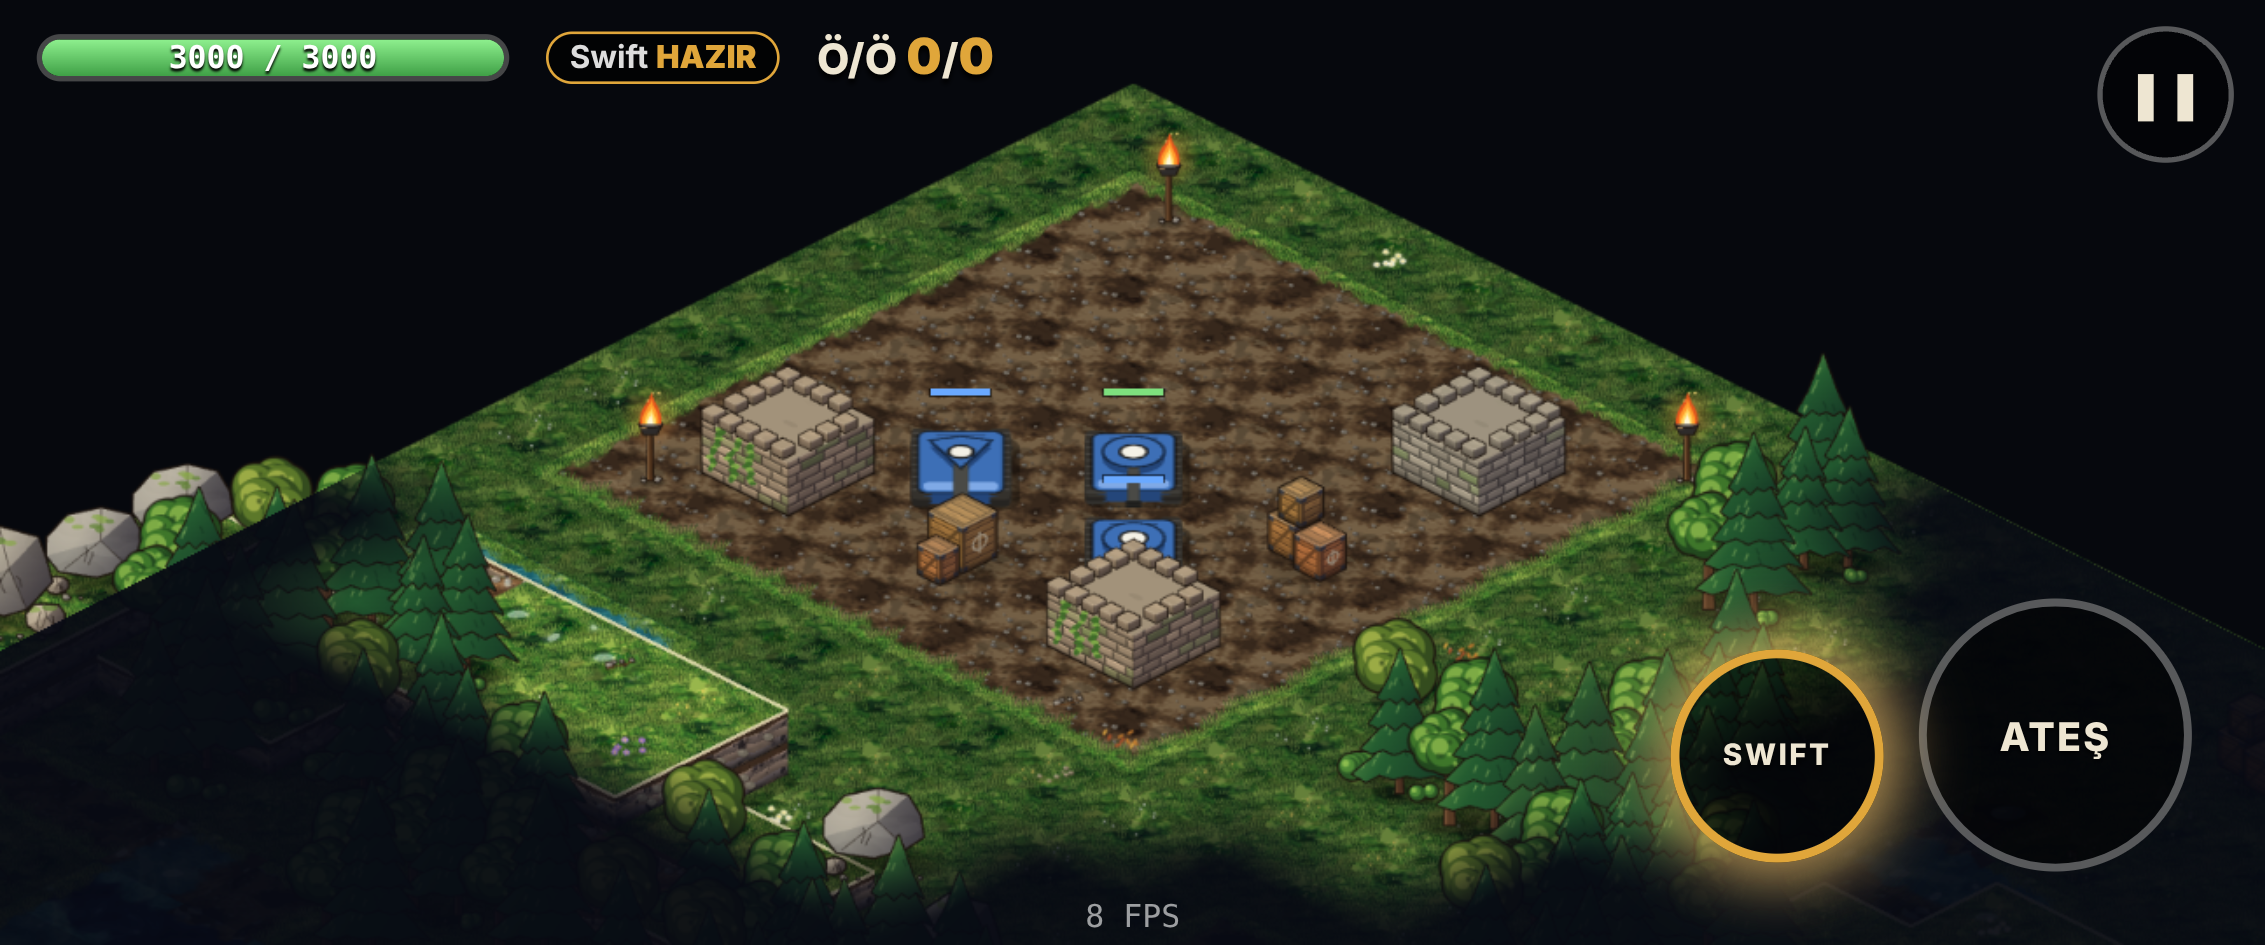
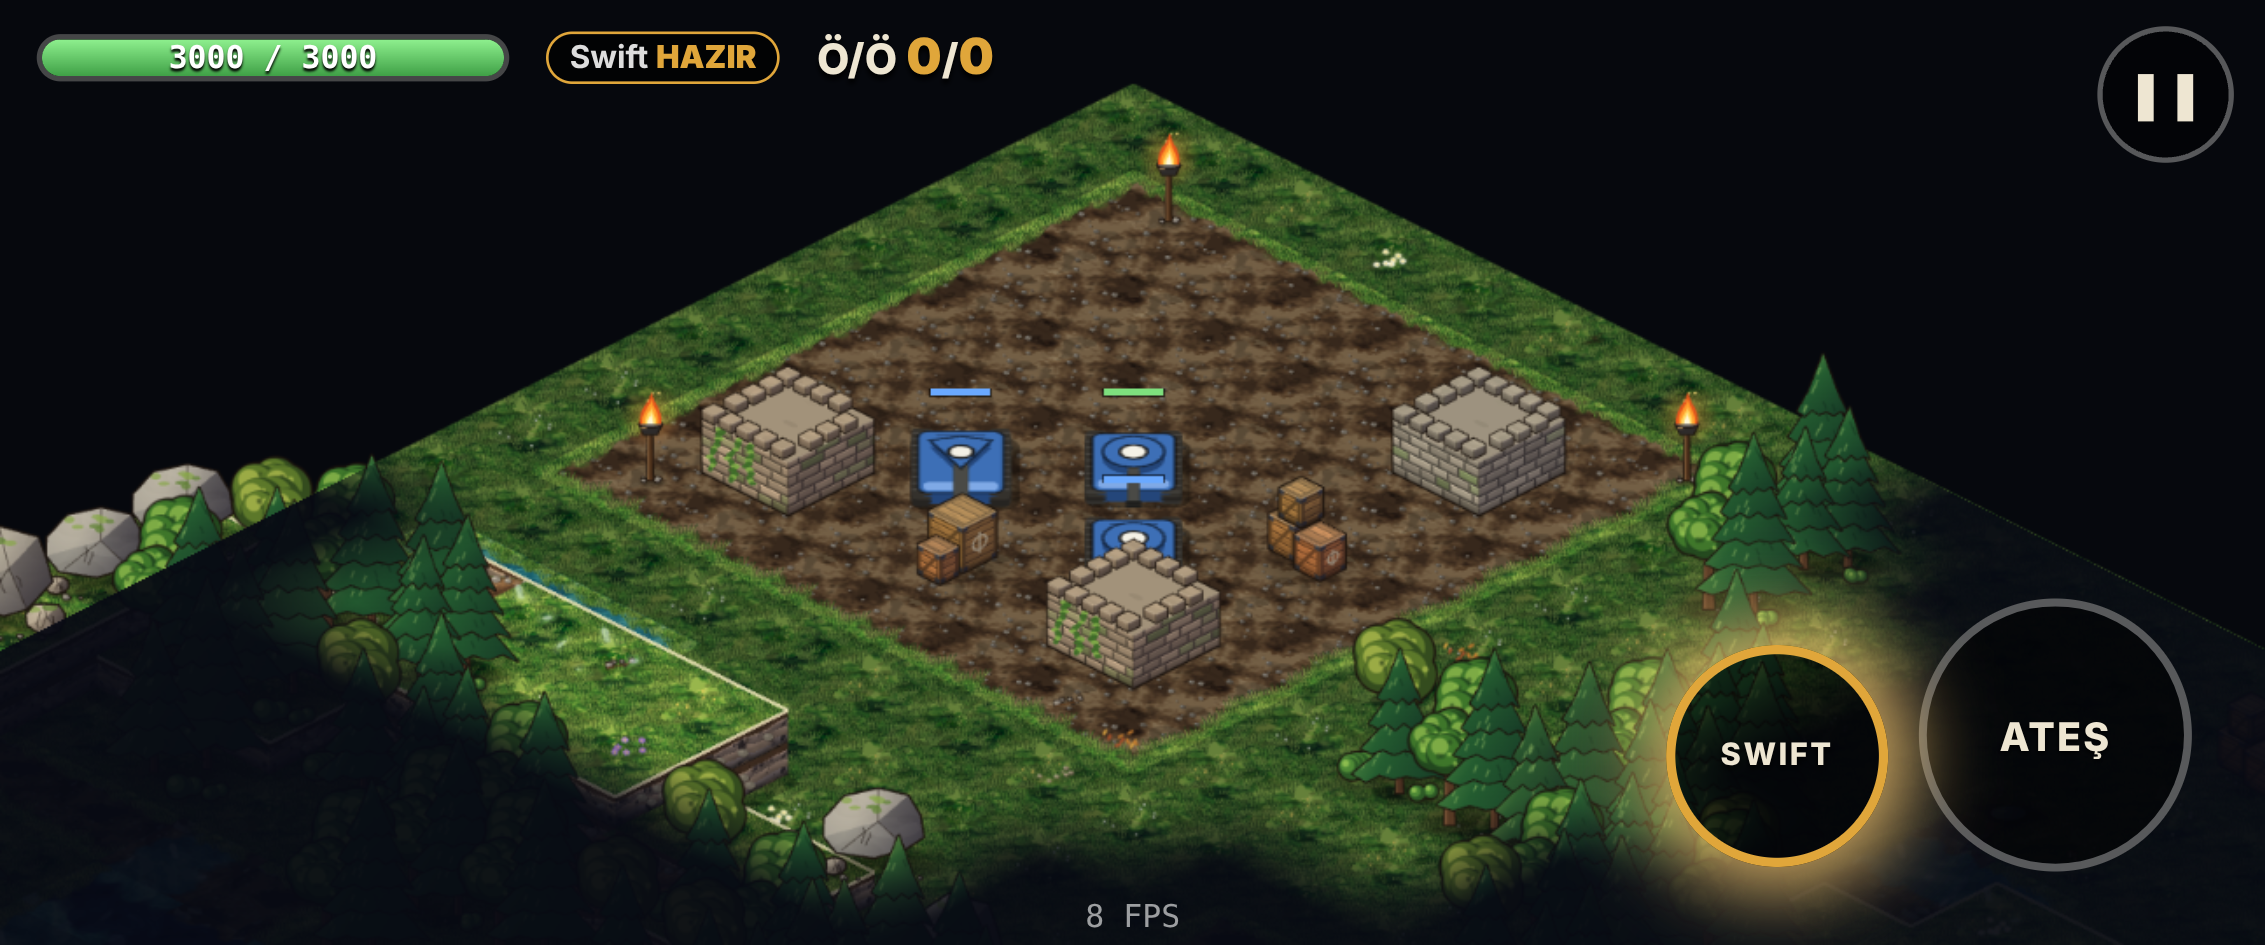
feat(ui): swipeable tank cards with stats and ability, difficulty selector
- class select is now a horizontal scroll-snap strip: the centred card is
  selected (swipe or tap), spinning sprite-stacked tank preview, numbers
  from tanks.json/combat.json/abilities.json (hp, armor, tap/full damage,
  reload, speed, range, vision), ability name/duration/cooldown/damage +
  description, 'Yetenek agaci: Yakinda'
- Kolay/Normal/Zor/Ekstrem segmented selector (names only), saved in
  settings.difficulty and passed to every bot
- i18n tr/en/ar; e2e screenshots 04-06

Claude-Session: https://claude.ai/code/session_01QLuwurUtEMQpi25FmPCnvD

Changed region(s): [[0.7108, 0.6138, 0.8653, 0.982], [0.2472, 0.6751, 0.2781, 0.7058], [0.2163, 0.6444, 0.2472, 0.6751]]

diff --git a/src/ui/ClassSelect.tsx b/src/ui/ClassSelect.tsx
@@ -1,51 +1,182 @@
-import { useState } from 'react';
-import { TANKS, TANK_CLASSES, type TankClassId } from '../sim/config';
+import { useEffect, useRef, useState } from 'react';
+import { ABILITIES, COMBAT, TANKS, TANK_CLASSES, evalCurve, type TankClassId } from '../sim/config';
+import { TEAM_PALETTES, drawTankSlices } from '../render/tankArt';
+import type { Difficulty } from '../core/save';
 import { t } from '../i18n';
 
-/** Normalised 0..1 stat bars derived from tanks.json (no hard-coded numbers). */
-function stats(cls: TankClassId): { speed: number; armor: number; power: number; vision: number } {
-  const all = TANK_CLASSES.map((c) => TANKS[c]);
-  const max = (f: (d: (typeof all)[number]) => number): number => Math.max(...all.map(f));
-  const d = TANKS[cls];
-  const dps = (x: typeof d): number => (x.damage * 2) / (x.fireCooldown + x.chargeTime * 0.5);
-  const ehp = (x: typeof d): number => x.hp / (1 - x.armor);
-  return {
-    speed: d.maxSpeed / max((x) => x.maxSpeed),
-    armor: ehp(d) / max(ehp),
-    power: dps(d) / max(dps),
-    vision: cls === 'trapper' ? 1 : d.vision / max((x) => x.vision) * 0.8,
-  };
+const DIFFICULTIES: Difficulty[] = ['easy', 'normal', 'hard', 'extreme'];
+
+/** Rounded number for the cards (no trailing ",0"). */
+function fmt(n: number): string {
+  return (Math.round(n * 100) / 100).toLocaleString('tr-TR');
 }
 
-export function ClassSelect({ initial, onStart, onBack }: { initial: TankClassId; onStart: (c: TankClassId) => void; onBack: () => void }) {
+/** Spinning sprite-stacked preview of a tank (same slices as in the game), drawn on a 2D canvas. */
+function TankPreview({ cls, spin }: { cls: TankClassId; spin: boolean }) {
+  const ref = useRef<HTMLCanvasElement>(null);
+  useEffect(() => {
+    const c = ref.current!;
+    const g = c.getContext('2d')!;
+    const sl = drawTankSlices(cls, TEAM_PALETTES[0]);
+    const lift = 2.6;
+    let raf = 0;
+    let a = -0.6;
+    let last = performance.now();
+    const draw = (now: number): void => {
+      if (spin) a += ((now - last) / 1000) * 0.9;
+      last = now;
+      g.clearRect(0, 0, c.width, c.height);
+      const cx = c.width / 2;
+      const cy = c.height / 2 + 14;
+      const scale = c.width / 120;
+      const layer = (img: HTMLCanvasElement, z: number, ang: number): void => {
+        g.save();
+        g.translate(cx, cy - z * lift * scale * 0.8);
+        g.scale(scale, scale * 0.5);
+        g.rotate(ang);
+        g.drawImage(img, -img.width / 2, -img.height / 2);
+        g.restore();
+      };
+      layer(sl.shadow, -0.3, a);
+      sl.hull.forEach((h, i) => layer(h, i, a));
+      sl.turret.forEach((tr, i) => layer(tr, sl.hull.length + i, a + 0.5 * Math.sin(now / 900)));
+      if (spin) raf = requestAnimationFrame(draw);
+    };
+    raf = requestAnimationFrame(draw);
+    return () => cancelAnimationFrame(raf);
+  }, [cls, spin]);
+  return <canvas ref={ref} className="tank-preview" width={240} height={180} />;
+}
+
+/** Card content: every number is read from the data files (tanks.json, combat.json, abilities.json). */
+function Card({ cls, on, onPick }: { cls: TankClassId; on: boolean; onPick: () => void }) {
+  const d = TANKS[cls];
+  const ab = ABILITIES[d.ability];
+  const full = evalCurve(COMBAT.scaling.damage, 1);
+  const abDmg = Number(ab.damage ?? 0);
+  const abShots = Number(ab.shots ?? 1);
+  const abDur = Number(ab.duration);
+  const rows: [string, string][] = [
+    [t('card.hp'), fmt(d.hp)],
+    [t('card.armor'), `%${Math.round(d.armor * 100)}`],
+    [t('card.damage'), `${fmt(d.damage)} / ${fmt(d.damage * full)}`],
+    [t('card.fireRate'), `${fmt(d.fireCooldown)} ${t('hud.sec')}`],
+    [t('card.speed'), fmt(d.maxSpeed)],
+    [t('card.range'), d.minRange > 0 ? `${fmt(d.minRange)}–${fmt(d.range)}` : fmt(d.range)],
+    [t('card.vision'), cls === 'trapper' ? t('card.visionAll') : fmt(d.vision)],
+  ];
+  return (
+    <button className={'tank-card' + (on ? ' on' : '')} data-testid={`class-${cls}`} data-cls={cls} onClick={onPick}>
+      <div className="tc-left">
+        <TankPreview cls={cls} spin={on} />
+        <div className="tc-name">{t(`class.${cls}`)}</div>
+        <div className="tc-role">{t(`class.${cls}.role`)}</div>
+        <div className="tc-desc">{t(`class.${cls}.desc`)}</div>
+      </div>
+      <div className="tc-right">
+        <dl className="tc-stats">
+          {rows.map(([k, v]) => (
+            <div key={k}>
+              <dt>{k}</dt>
+              <dd>{v}</dd>
+            </div>
+          ))}
+        </dl>
+        <div className="tc-ability">
+          <div className="tc-ab-head">
+            <b>{String(ab.name)}</b>
+            <span>
+              {abDur > 0 ? `${fmt(abDur)} ${t('hud.sec')} · ` : ''}
+              {t('card.cooldown')} {fmt(Number(ab.cooldown))} {t('hud.sec')}
+              {abDmg > 0 ? ` · ${t('card.damage')} ${abShots > 1 ? `${abShots}×` : ''}${fmt(abDmg)}` : ''}
+            </span>
+          </div>
+          <p>{t(`ability.${d.ability}.desc`)}</p>
+        </div>
+        <div className="tc-tree">
+          <b>{t('card.tree')}</b> <span>{t('card.soon')}</span>
+        </div>
+      </div>
+    </button>
+  );
+}
+
+export function ClassSelect({
+  initial,
+  difficulty,
+  onStart,
+  onBack,
+}: {
+  initial: TankClassId;
+  difficulty: Difficulty;
+  onStart: (c: TankClassId, d: Difficulty) => void;
+  onBack: () => void;
+}) {
   const [sel, setSel] = useState<TankClassId>(initial);
+  const [diff, setDiff] = useState<Difficulty>(difficulty);
+  const strip = useRef<HTMLDivElement>(null);
+  const settling = useRef(false);
+
+  const centre = (c: TankClassId, smooth: boolean): void => {
+    const el = strip.current?.querySelector<HTMLElement>(`[data-cls="${c}"]`);
+    if (!el || !strip.current) return;
+    const s = strip.current;
+    s.scrollTo({ left: el.offsetLeft - (s.clientWidth - el.clientWidth) / 2, behavior: smooth ? 'smooth' : 'auto' });
+  };
+
+  useEffect(() => {
+    centre(initial, false);
+  }, [initial]);
+
+  // the card closest to the centre of the strip is the selected one (swipe to choose)
+  const onScroll = (): void => {
+    const s = strip.current;
+    if (!s || settling.current) return;
+    const mid = s.scrollLeft + s.clientWidth / 2;
+    let best = sel;
+    let bestD = Infinity;
+    s.querySelectorAll<HTMLElement>('.tank-card').forEach((el) => {
+      const d = Math.abs(el.offsetLeft + el.clientWidth / 2 - mid);
+      if (d < bestD) {
+        bestD = d;
+        best = el.dataset.cls as TankClassId;
+      }
+    });
+    if (best !== sel) setSel(best);
+  };
+
+  const pick = (c: TankClassId): void => {
+    setSel(c);
+    settling.current = true;
+    centre(c, true);
+    window.setTimeout(() => (settling.current = false), 450);
+  };
+
   return (
     <div className="screen class-select">
       <h2>{t('menu.chooseClass')}</h2>
-      <div className="class-cards">
-        {TANK_CLASSES.map((c) => {
-          const s = stats(c);
-          return (
-            <button key={c} className={'class-card' + (c === sel ? ' on' : '')} data-testid={`class-${c}`} onClick={() => setSel(c)}>
-              <div className="class-name">{t(`class.${c}`)}</div>
-              <div className="class-desc">{t(`class.${c}.desc`)}</div>
-              {(['speed', 'armor', 'power', 'vision'] as const).map((k) => (
-                <div key={k} className="stat">
-                  <span>{t(`stat.${k}`)}</span>
-                  <i>
-                    <b style={{ width: `${Math.round(s[k] * 100)}%` }} />
-                  </i>
-                </div>
-              ))}
-            </button>
-          );
-        })}
+      <div className="tank-strip" ref={strip} onScroll={onScroll} data-testid="tank-strip">
+        {TANK_CLASSES.map((c) => (
+          <Card key={c} cls={c} on={c === sel} onPick={() => pick(c)} />
+        ))}
       </div>
-      <div className="row">
+      <div className="strip-dots">
+        {TANK_CLASSES.map((c) => (
+          <i key={c} className={c === sel ? 'on' : ''} onClick={() => pick(c)} />
+        ))}
+      </div>
+      <div className="row select-bar">
         <button className="btn" onClick={onBack}>
           {t('menu.back')}
         </button>
-        <button className="btn btn-primary" data-testid="start" onClick={() => onStart(sel)}>
+        <div className="seg" role="radiogroup" data-testid="difficulty">
+          {DIFFICULTIES.map((d) => (
+            <button key={d} role="radio" aria-checked={d === diff} className={d === diff ? 'on' : ''} data-testid={`diff-${d}`} onClick={() => setDiff(d)}>
+              {t(`diff.${d}`)}
+            </button>
+          ))}
+        </div>
+        <button className="btn btn-primary" data-testid="start" onClick={() => onStart(sel, diff)}>
           {t('menu.start')}
         </button>
       </div>

diff --git a/src/ui/styles.css b/src/ui/styles.css
@@ -85,16 +85,40 @@ input[type='range'] { width: 200px; accent-color: var(--accent); }
 .score .blue { color: #7fb2ff; }
 .score .red { color: #ff7a6a; }
 .respawn { position: absolute; top: 38%; left: 50%; transform: translate(-50%, -50%); font-size: 26px; font-weight: 900; text-shadow: 0 2px 4px #000; pointer-events: none; }
-.class-select { gap: 10px; }
-.class-select h2 { margin: 0; }
-.class-cards { display: flex; gap: 8px; max-width: 100%; overflow-x: auto; padding: 4px; }
-.class-card { flex: 0 0 auto; width: clamp(120px, 17vw, 190px); padding: 10px; text-align: start; color: var(--ink); background: #1f2530; border: 2px solid #3a4252; border-radius: 12px; display: flex; flex-direction: column; gap: 4px; }
-.class-card.on { border-color: var(--accent); box-shadow: 0 0 14px #e0a63a66; background: #2a2f3a; }
-.class-name { font-weight: 900; font-size: 18px; }
-.class-desc { font-size: 12px; color: var(--muted); min-height: 30px; }
-.stat { display: grid; grid-template-columns: 1fr 1.3fr; align-items: center; gap: 6px; font-size: 11px; }
-.stat i { height: 6px; background: #000a; border-radius: 3px; overflow: hidden; }
-.stat b { display: block; height: 100%; background: var(--accent); }
+.class-select { gap: 6px; padding: 8px 0; justify-content: flex-start; }
+.class-select h2 { margin: 0; font-size: 20px; }
+/* swipeable card strip: one big card centred, neighbours peek in from the sides */
+.tank-strip { width: 100%; display: flex; gap: 14px; overflow-x: auto; scroll-snap-type: x mandatory; scrollbar-width: none;
+  padding: 4px calc((100% - min(640px, 74vw)) / 2); box-sizing: border-box; flex: 1 1 auto; min-height: 0; }
+.tank-strip::-webkit-scrollbar { display: none; }
+.tank-card { flex: 0 0 min(640px, 74vw); scroll-snap-align: center; display: grid; grid-template-columns: 0.9fr 1.25fr; gap: 12px; padding: 10px 14px;
+  text-align: start; color: var(--ink); background: #1f2530; border: 2px solid #3a4252; border-radius: 16px; opacity: 0.55; transform: scale(0.94);
+  transition: opacity 0.2s, transform 0.2s, border-color 0.2s; max-height: 100%; overflow: hidden; }
+.tank-card.on { opacity: 1; transform: none; border-color: var(--accent); box-shadow: 0 0 18px #e0a63a55; background: #262c38; }
+.tc-left { display: flex; flex-direction: column; align-items: center; text-align: center; gap: 2px; min-width: 0; }
+.tank-preview { width: 100%; max-width: 200px; height: auto; aspect-ratio: 4 / 3; }
+.tc-name { font-weight: 900; font-size: 22px; line-height: 1; }
+.tc-role { font-size: 12px; color: var(--accent); font-weight: 700; }
+.tc-desc { font-size: 11px; color: var(--muted); }
+.tc-right { display: flex; flex-direction: column; gap: 6px; min-width: 0; }
+.tc-stats { display: grid; grid-template-columns: 1fr 1fr; gap: 2px 12px; margin: 0; }
+.tc-stats div { display: flex; justify-content: space-between; gap: 6px; border-bottom: 1px solid #ffffff12; padding: 2px 0; }
+.tc-stats dt { font-size: 12px; color: var(--muted); }
+.tc-stats dd { margin: 0; font-size: 13px; font-weight: 800; white-space: nowrap; }
+.tc-ability { background: #0004; border: 1px solid #7fe0ff44; border-radius: 10px; padding: 6px 8px; }
+.tc-ab-head { display: flex; flex-wrap: wrap; align-items: baseline; gap: 2px 8px; }
+.tc-ab-head b { color: #bff1ff; font-size: 14px; }
+.tc-ab-head span { font-size: 11px; color: var(--muted); }
+.tc-ability p { margin: 3px 0 0; font-size: 12px; line-height: 1.25; }
+.tc-tree { font-size: 12px; color: var(--muted); border: 1px dashed #ffffff30; border-radius: 10px; padding: 4px 8px; }
+.tc-tree span { color: var(--accent); font-weight: 700; }
+.strip-dots { display: flex; gap: 8px; justify-content: center; }
+.strip-dots i { width: 8px; height: 8px; border-radius: 50%; background: #ffffff33; cursor: pointer; }
+.strip-dots i.on { background: var(--accent); width: 20px; border-radius: 4px; }
+.select-bar { align-items: center; gap: 12px; flex-wrap: nowrap; }
+.seg { display: flex; background: #0006; border: 1px solid #ffffff22; border-radius: 12px; padding: 3px; gap: 2px; }
+.seg button { border: 0; background: transparent; color: var(--muted); font: 700 13px/1 system-ui, sans-serif; padding: 9px 12px; border-radius: 9px; }
+.seg button.on { background: var(--accent); color: #1a1205; }
 .row { display: flex; gap: 12px; }
 /* --- round 01: match HUD, minimap, results --- */
 .match-timer { position: absolute; top: calc(6px + var(--safe-t)); left: 50%; transform: translateX(-50%); font: 900 30px/1 'Trebuchet MS', sans-serif; color: #fff; text-shadow: 0 2px 4px #000, 0 0 10px #0008; pointer-events: none; letter-spacing: 0.04em; }

diff --git a/e2e/round02.spec.ts b/e2e/round02.spec.ts
@@ -49,3 +49,40 @@ test('ability button: active → cooling → ready (Swift)', async ({ page }) =>
   await expect(page.getByTestId('ability-chip')).toContainText('HAZIR');
   await shot(page, '03-ability-ready');
 });
+
+test('tank select: swipeable cards with stats + ability, difficulty selector (remembered)', async ({ page }) => {
+  await page.goto('/?silent');
+  await page.getByTestId('play').click();
+  const strip = page.getByTestId('tank-strip');
+  await expect(page.locator('.tank-card.on')).toHaveAttribute('data-cls', 'standard');
+  await expect(page.locator('.tank-card.on')).toContainText('3.000');
+  await expect(page.locator('.tank-card.on')).toContainText('Swift');
+  await expect(page.locator('.tank-card.on')).toContainText('Yakında');
+  await page.waitForTimeout(400); // let the preview draw a few frames
+  await shot(page, '04-tank-cards');
+  // swipe one card to the right → the next class becomes selected
+  await strip.evaluate((el) => el.scrollBy({ left: el.querySelector<HTMLElement>('.tank-card')!.clientWidth + 14 }));
+  await expect(page.locator('.tank-card.on')).toHaveAttribute('data-cls', 'artillery');
+  await expect(page.locator('.tank-card.on')).toContainText('Yaylım Ateşi');
+  await shot(page, '05-tank-cards-swiped');
+  // every card is reachable and shows its own numbers
+  for (const [cls, hp] of [
+    ['scout', '1.750'],
+    ['heavy', '5.500'],
+    ['trapper', '2.375'],
+  ] as const) {
+    await page.getByTestId(`class-${cls}`).click();
+    await expect(page.locator('.tank-card.on')).toHaveAttribute('data-cls', cls);
+    await expect(page.locator('.tank-card.on')).toContainText(hp);
+  }
+  await expect(page.getByTestId('diff-normal')).toHaveAttribute('aria-checked', 'true');
+  await page.getByTestId('diff-extreme').click();
+  await expect(page.getByTestId('diff-extreme')).toHaveAttribute('aria-checked', 'true');
+  await shot(page, '06-difficulty');
+  await page.getByTestId('start').click();
+  await page.waitForFunction(() => (window as unknown as { __tanky?: { scene: { state: unknown } } }).__tanky?.scene.state !== undefined, null, { timeout: 60_000 });
+  await page.getByTestId('pause').click();
+  await page.getByTestId('quit').click();
+  await page.getByTestId('play').click();
+  await expect(page.getByTestId('diff-extreme')).toHaveAttribute('aria-checked', 'true');
+});

diff --git a/src/ui/App.tsx b/src/ui/App.tsx
@@ -47,9 +47,11 @@ export function App() {
         {screen === 'classSelect' && (
           <ClassSelect
             initial={cls}
+            difficulty={save.settings.difficulty}
             onBack={() => setScreen('menu')}
-            onStart={(c) => {
+            onStart={(c, d) => {
               setCls(c);
+              if (d !== save.settings.difficulty) updateSave({ ...save, settings: { ...save.settings, difficulty: d } });
               setSeed(newSeed());
               setScreen('game');
             }}
